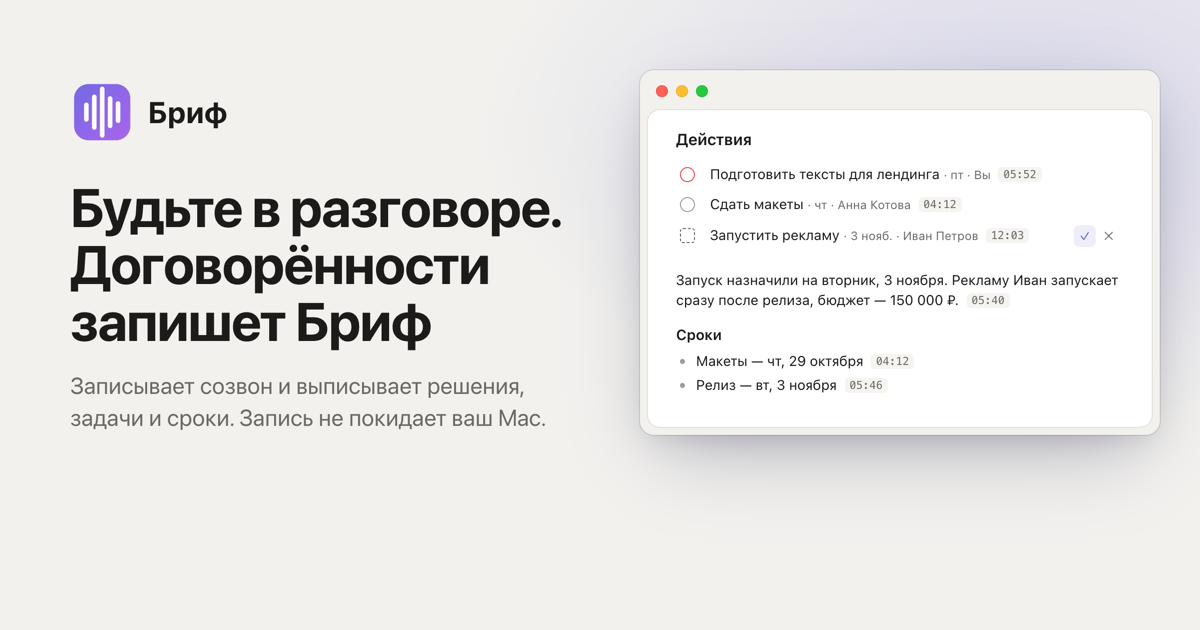
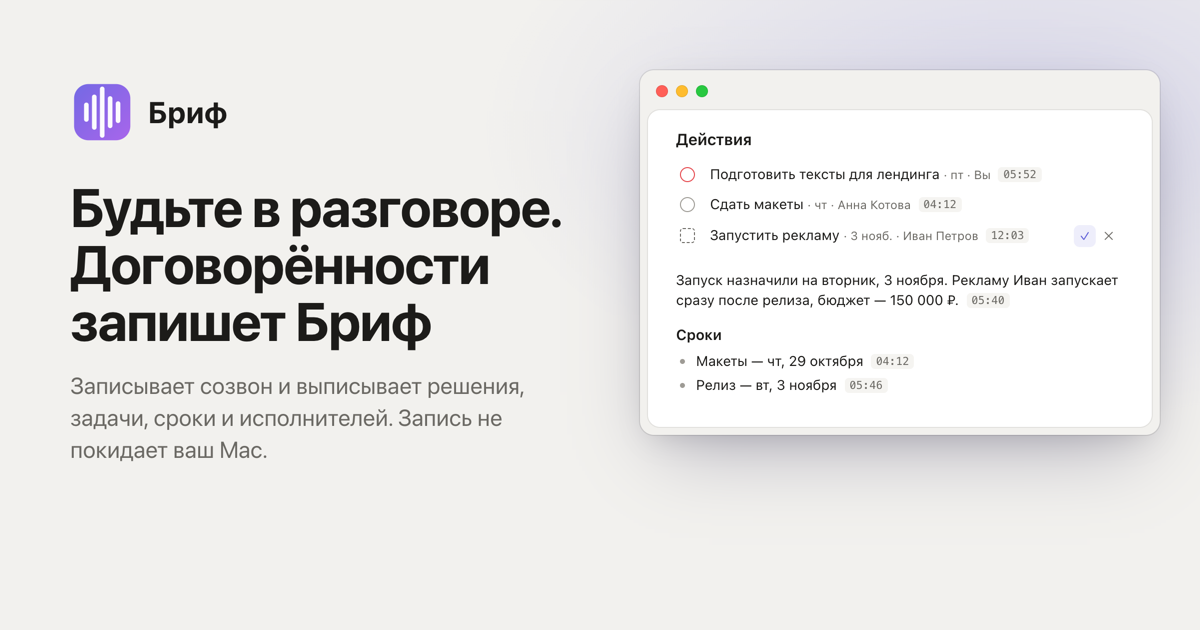
Сайт: 9fb7193

Changed region(s): [[0.0617, 0.6333, 0.4625, 0.7238]]

diff --git a/index.html b/index.html
@@ -8,7 +8,7 @@
 <meta property="og:type" content="website">
 <meta property="og:locale" content="ru_RU">
 <meta property="og:title" content="Будьте в разговоре. Договорённости запишет Бриф">
-<meta property="og:description" content="Бриф записывает созвон и выписывает решения, задачи и сроки. Запись не покидает ваш Mac — речь распознаётся прямо на нём, без облака. Сейчас бесплатно.">
+<meta property="og:description" content="Бриф записывает созвон и выписывает решения, задачи, сроки и исполнителей. Запись не покидает ваш Mac — речь распознаётся прямо на нём, без облака. Сейчас бесплатно.">
 <meta property="og:image" content="https://23brezhnev.github.io/brif-releases/assets/og.png">
 <meta property="og:image:width" content="1200">
 <meta property="og:image:height" content="630">
@@ -43,7 +43,7 @@
   <div class="wrap">
     <span class="eyebrow"><span>Для macOS</span><span>·</span><b>сейчас бесплатно</b></span>
     <h1>Будьте в разговоре.<br> Договорённости запишет&nbsp;Бриф</h1>
-    <p class="lead">Бриф записывает созвон и выписывает решения, задачи и сроки. Запись не покидает ваш Mac — речь распознаётся прямо на нём, без облака.</p>
+    <p class="lead">Бриф записывает созвон и выписывает решения, задачи, сроки и исполнителей. Запись не покидает ваш Mac — речь распознаётся прямо на нём, без облака.</p>
     <div class="cta">
       <a class="btn mac-only" data-download href="https://github.com/23brezhnev/brif-releases/releases/latest">
         <svg viewBox="0 0 24 24" fill="none" stroke="currentColor" stroke-width="2.2" stroke-linecap="round" stroke-linejoin="round"><path d="M12 4v11m0 0-4.5-4.5M12 15l4.5-4.5M5 20h14"/></svg>

diff --git a/og.html b/og.html
@@ -13,7 +13,7 @@
 </style></head><body>
 <div class="l"><div class="b"><img src="assets/icon.png" alt="">Бриф</div>
   <h1>Будьте в разговоре. Договорённости запишет Бриф</h1>
-  <p>Записывает созвон и выписывает решения, задачи и сроки. Запись не покидает ваш Mac.</p></div>
+  <p>Записывает созвон и выписывает решения, задачи, сроки и исполнителей. Запись не покидает ваш Mac.</p></div>
 <div class="r"><div class="mac compact"><div class="lights"><i></i><i></i><i></i></div><div class="sheet"><div class="content">
   <div class="actions"><h6>Действия</h6>
     <div class="act ok hi"><span class="box"></span><div><span class="tt">Подготовить тексты для лендинга</span><span class="mm">· пт · Вы</span> <span class="cite">05:52</span></div><div class="btns"></div></div>
